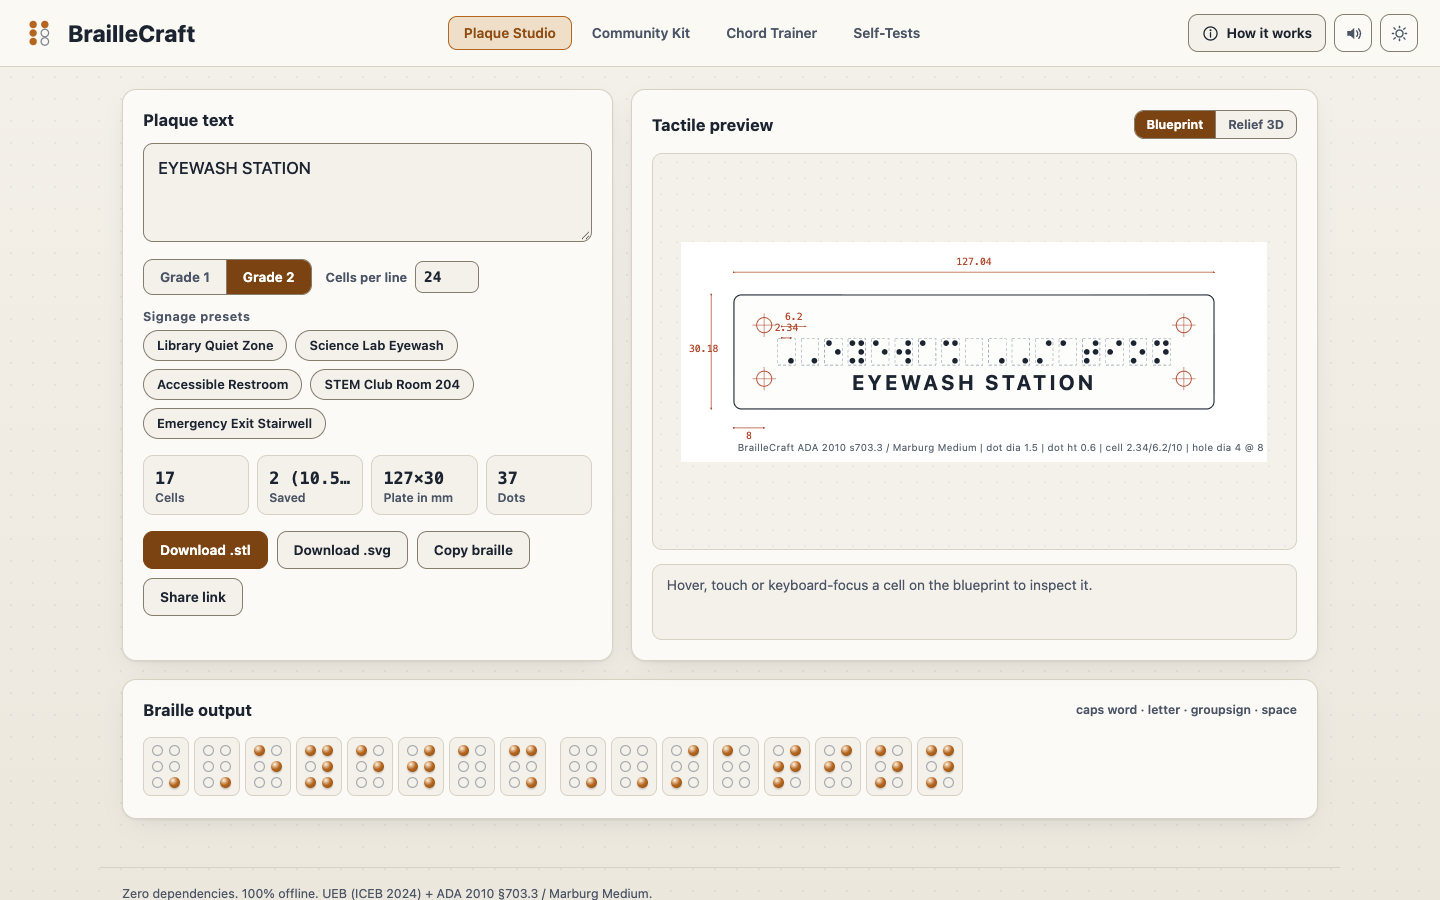
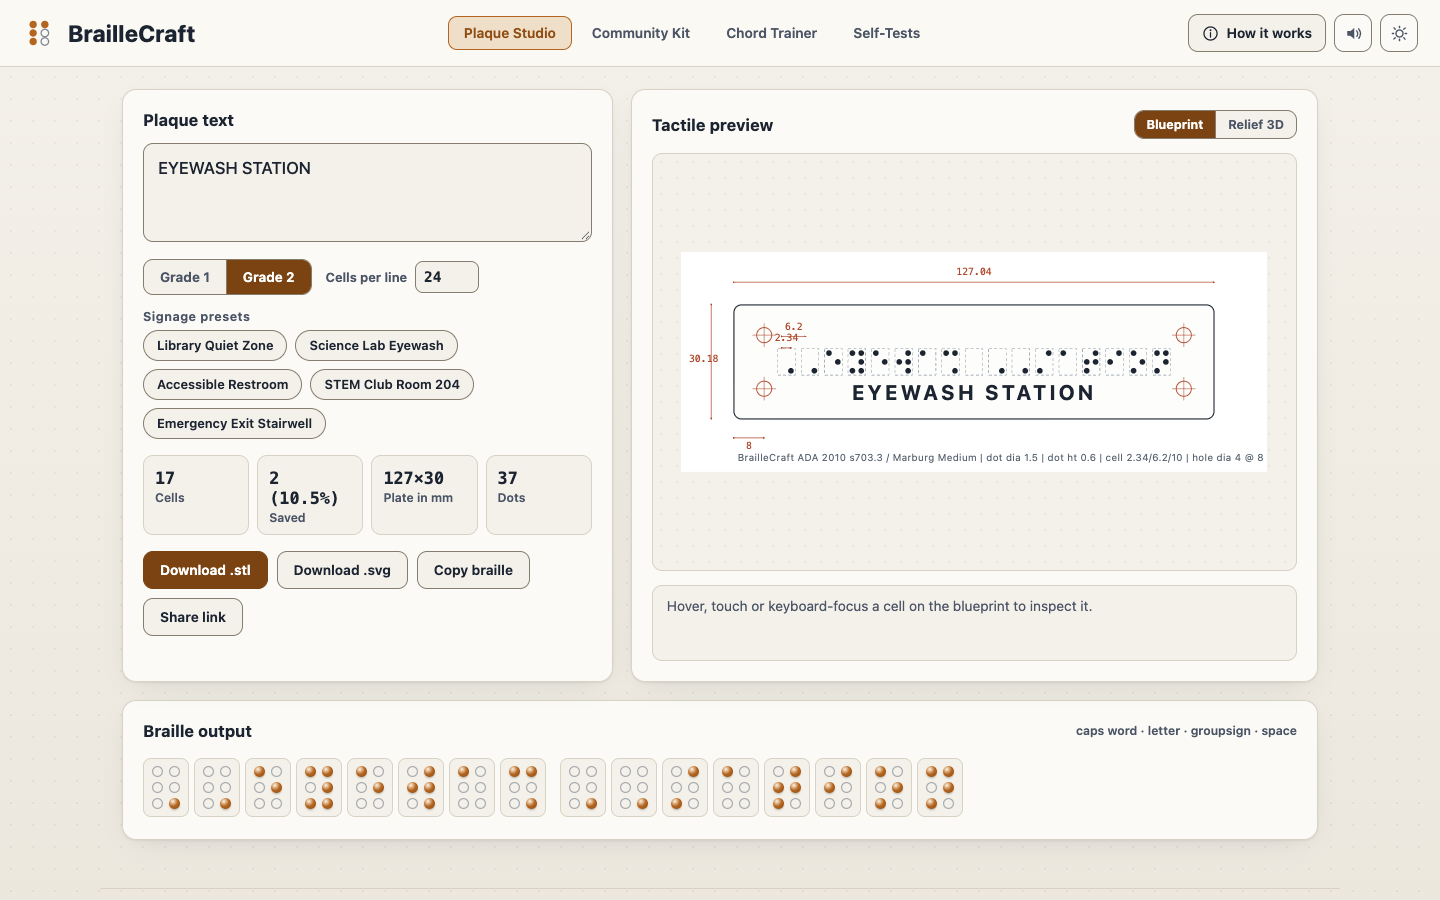
Fix clipped metrics, steady relief canvas and dark relief contrast
Metric values wrap instead of truncating, so a long value such as
"2 (10.5%)" stays readable. Phones go back to two metric columns now that
the preview leads the page.

The relief canvas height is measured from the plate at the default turn,
so dragging the tilt from -60 to 60 no longer resizes the canvas or moves
the slider. On the dark theme the slab face is lifted well above the
stage, its edges use the strong boundary colour, and the mounting holes
render dark in both themes.

The reduced-motion block names the dialog, buttons, progress bar and
chord grid explicitly and stays the last rule in the file. Dead inspector
dot styles are removed. Note on the previous commit: the handoff and card
print modes also pick up the light print palette and the 14 mm page
margin. README drops two claims that no in-repo check covers.

diff --git a/styles.css b/styles.css
@@ -209,7 +209,7 @@ textarea:focus { outline: 2px solid var(--accent); outline-offset: 1px; }
   display: flex; flex-direction: column-reverse; justify-content: flex-end;
 }
 .metric dt { font: 600 .76rem var(--sans); color: var(--ink-2); margin-top: 2px; }
-.metric dd { margin: 3px 0 0; font: 700 1.05rem var(--mono); color: var(--ink); white-space: nowrap; overflow: hidden; text-overflow: ellipsis; }
+.metric dd { margin: 3px 0 0; font: 700 1.05rem/1.2 var(--mono); color: var(--ink); overflow-wrap: anywhere; font-variant-numeric: tabular-nums; }
 
 /* -------------------------------- actions ------------------------------ */
 
@@ -276,9 +276,6 @@ textarea:focus { outline: 2px solid var(--accent); outline-offset: 1px; }
   border: 1px solid color-mix(in srgb, var(--accent) 45%, transparent);
   border-radius: 6px; padding: 2px 8px;
 }
-.insp-dots { display: inline-grid; grid-template-columns: repeat(2, 10px); gap: 4px 6px; vertical-align: middle; margin-inline: 8px; }
-.insp-dots i { width: 10px; height: 10px; border-radius: 50%; border: 1.5px solid var(--ink-2); }
-.insp-dots i.on { background: var(--accent); border-color: var(--accent); }
 
 /* ------------------------------ braille out ---------------------------- */
 
@@ -589,10 +586,6 @@ textarea:focus { outline: 2px solid var(--accent); outline-offset: 1px; }
   .studio-grid { gap: 14px; }
   .preview-card { order: -1; }
   .input-card textarea { height: 4.9em; }
-  .input-card .metrics { grid-template-columns: repeat(4, minmax(0, 1fr)); gap: 6px; }
-  .input-card .metric { padding: 7px 8px; }
-  .input-card .metric dd { font-size: .92rem; }
-  .input-card .metric dt { font-size: .7rem; }
   .inspector { min-height: 0; padding: 10px 12px; }
   .insp-grid { gap: 4px 12px; }
   .stage { min-height: 160px; }
@@ -608,4 +601,7 @@ textarea:focus { outline: 2px solid var(--accent); outline-offset: 1px; }
 
 @media (prefers-reduced-motion: reduce) {
   *, *::before, *::after { transition: none !important; animation: none !important; }
+  html .how[open], html .btn, html .icon-btn, html .progress-bar, html .cg {
+    transition: none !important; animation: none !important;
+  }
 }

diff --git a/README.md b/README.md
@@ -32,8 +32,6 @@ BrailleCraft is a tactile engineering studio that runs entirely in the browser w
 - Five built-in signage presets (library quiet zone, science lab eyewash, accessible restroom, STEM club room, emergency exit stairwell)
 - URL-hash shareable state (preset, text, grade, lesson, theme, mute)
 - Light/dark theme, keyboard-first ARIA tab structure, responsive from `390 px` to desktop with zero horizontal overflow
-- WCAG AA text and 3:1 control boundaries in both themes, focus rings that never hide under the sticky header, and a reduced-motion override
-- Plain print of any tab drops the controls and prints the work on white in the light palette, even from dark mode
 
 ### Community Tactile Kit (`src/kit.mjs`)
 - Turns a whole hallway of signs into one volunteer print job: three starter packs (classroom hallway, science wing, community center) or your own signs, each with a copy count
